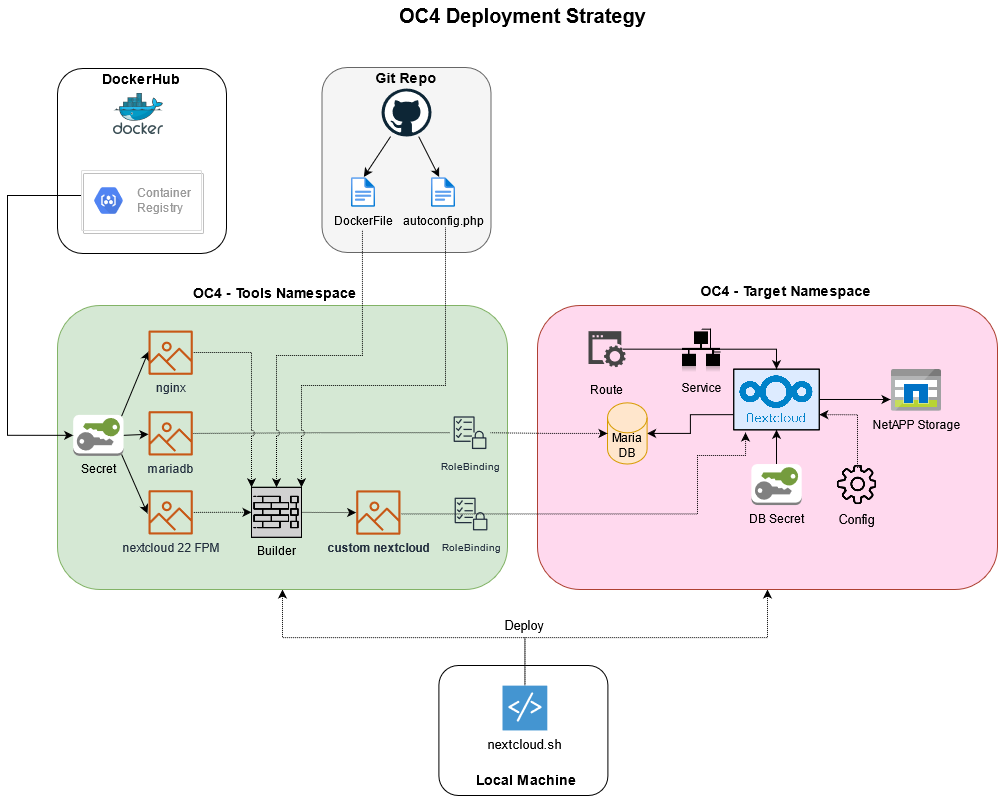
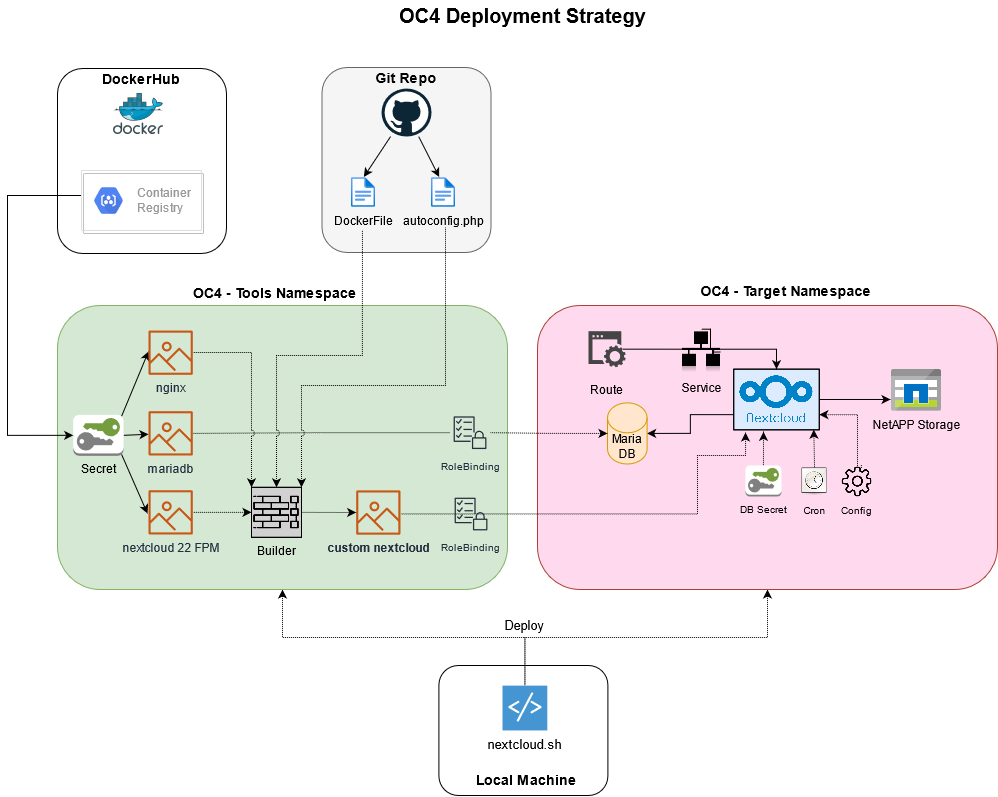
Documentation/Readme Updates

diff --git a/openshift/oc4-meta-templates/services/nextcloud/README.md b/openshift/oc4-meta-templates/services/nextcloud/README.md
@@ -1,11 +1,11 @@
 # Nextcloud OpenShift Deployment
 
-The goal of this set of templates and scripts is to rapidly deploy a Nextcloud Cluster that adheres to BC Gov standard Namespace conventions. It deploys builders and imagestreams to Tools as first time run, and deploys Nextcloud and MariaDB including services/routes/secrets/config/storage to the appropriate environment (dev/test/prod). Some additions to a standard docker image based nextcloud install:
+The goal of this set of templates and scripts is to rapidly deploy a Nextcloud Cluster that adheres to BC Gov standard Namespace conventions. It deploys builders and imagestreams to Tools as first time run, and deploys Nextcloud and MariaDB including Deployment Configs/services/Routes/Secrets/ConfigMaps/PVCs/CronJobs to the appropriate environment (dev/test/prod). Some additions to a standard docker image based nextcloud install:
 
 * Uses supplied DockerHub Credentials to avoid docker pull rate failures on 3 source DockerImages (Nginx/MariaDB,Nextcloud)
 * Fronted by Nginx rather than Apache
 * Builder + Dockerfile strategy to customize the final Nextcloud container image composition and configuration
-* A continuation of work done by (https://github.com/tobru/) and (https://github.com/agahchen)
+* A continuation of work done by (https://github.com/tobru) and (https://github.com/agahchen)
 
 
 [![N|Solid](https://github.com/ChrisHoban/ssg-openshift-meta-templates/blob/master/NextcloudOpenShiftDeployment.png)](https://github.com/ChrisHoban/ssg-openshift-meta-templates/blob/master/openshift/oc4-meta-templates/services/nextcloud/NextcloudOpenShiftDeployment.png)
